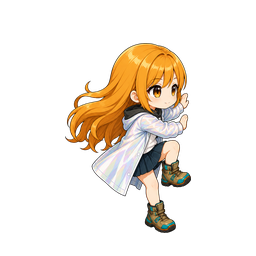
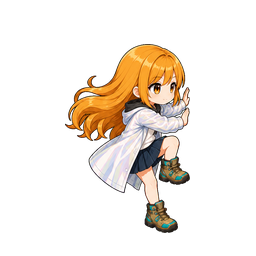
art: correct Neon wall slide proportions

Changed region(s): [[0.25, 0.1562, 0.75, 0.9062]]

diff --git a/CHANGELOG.md b/CHANGELOG.md
@@ -5,6 +5,10 @@
 
 ## [Unreleased]
 
+### Neon wall-slide 頭身比校正
+
+- 重繪 `public/assets/char/neon_wall_slide.png`：以已核可的 dash 姿勢為比例錨點，縮小頭部與整體比例；維持 256×256 RGBA、透明四角與腳底基線 y=232。`neon_dash.png` 未變更。
+
 ### Neon 固定骨架逐幀 strip
 
 - 正式素材改回 18 張「外觀錨 `stand.png` + 對應固定骨長姿勢圖」獨立生成的逐幀流程，不使用前一格生成結果作參考；覆寫 8 條 `public/assets/char/neon_*.png` strip。